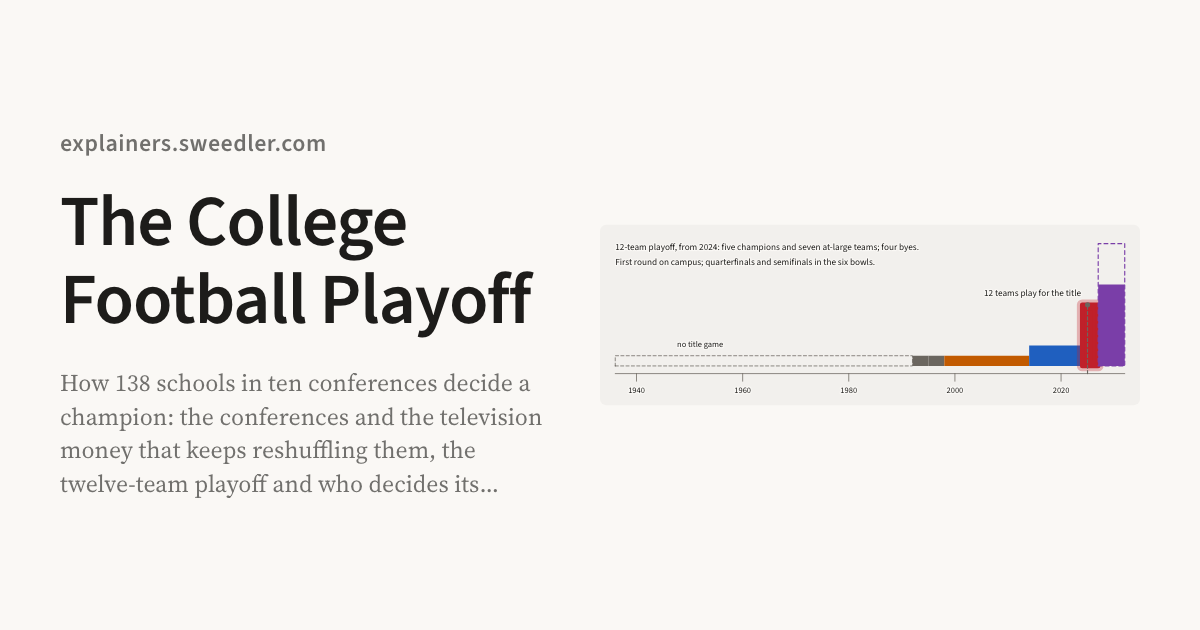
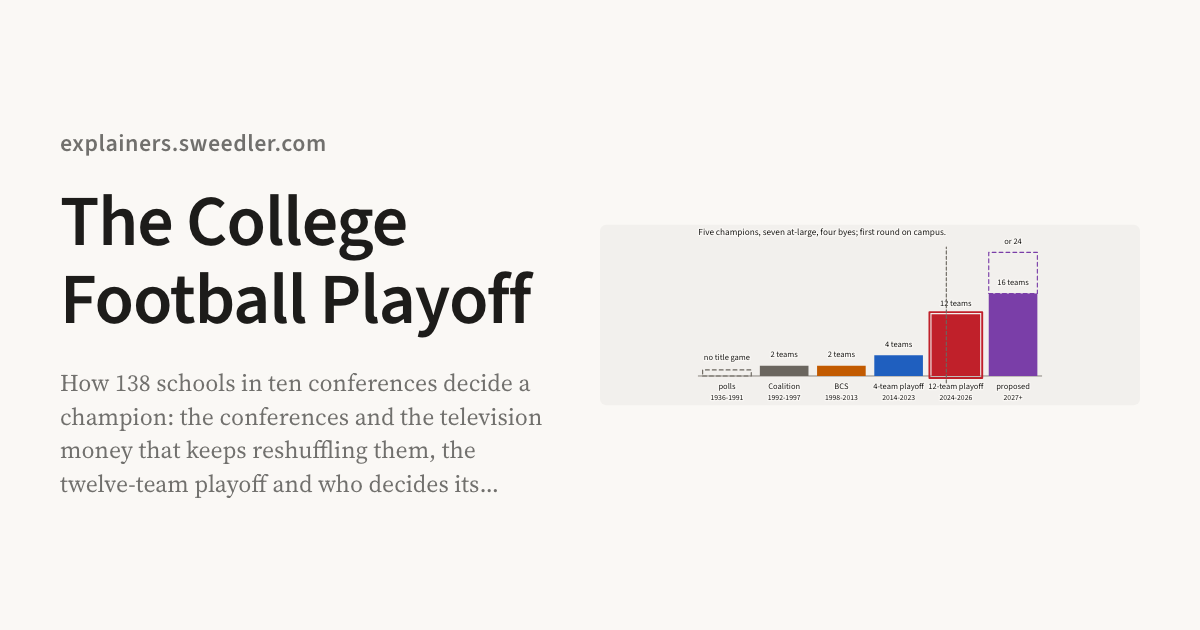
articles/college-football-playoff: hero as equal-width era columns
The staircase of teams that play for the title now has one column per
system, so the five modern systems are not crammed into the last tenth of
a 1936-2032 axis; the marker glides across the columns with the season.

Front-page card (29 interactive figures, 18 min, swatches red, blue, orange)
and the link-preview card assets/og.png. The Pages workflow deploys it to
https://explainers.sweedler.com/college-football-playoff/

Changed region(s): [[0.5242, 0.4222, 0.9558, 0.6333], [0.5242, 0.3619, 0.8017, 0.4222]]

diff --git a/articles/college-football-playoff/index.html b/articles/college-football-playoff/index.html
@@ -59,7 +59,7 @@
   <h1>The College Football Playoff</h1>
   <p class="x-lede">Every January one team is named the champion of college football, and every year the way it is chosen seems to change. The system is three systems stacked on one another: conferences of schools that sell television rights, a postseason that was never designed as a whole, and a century of rules about paying the players that the courts have been dismantling since 2014. The first tab is the system as it stands in 2026; the second is how it got this way, one dated entry at a time.</p>
   <figure class="x-fig" id="fig-hero" data-aspect="3:1">
-<svg class="x-poster" id="fig-hero-poster" xmlns="http://www.w3.org/2000/svg" viewBox="0 0 704 235" width="704" height="235" aria-hidden="true" data-poster="08406f91b91f237810a85561dc0849f1ceb63712"><style>#fig-hero-poster:root{color-scheme:light dark}
+<svg class="x-poster" id="fig-hero-poster" xmlns="http://www.w3.org/2000/svg" viewBox="0 0 704 235" width="704" height="235" aria-hidden="true" data-poster="6db7342e5d0f9a1b0aeaf99c5abca2f068773d8e"><style>#fig-hero-poster:root{color-scheme:light dark}
 #fig-hero-poster{font:13px 'Source Sans 3', system-ui, -apple-system, 'Segoe UI', sans-serif}
 #fig-hero-poster .f-blue{fill:var(--c-blue, light-dark(#1f5fbf, #7cb0ff))}
 #fig-hero-poster .f-fg{fill:var(--fg, light-dark(#1d1c1a, #e8e4dc))}
@@ -71,8 +71,8 @@
 #fig-hero-poster .h{paint-order:stroke;stroke:var(--bg, light-dark(#faf8f5, #151412));stroke-width:3;stroke-linejoin:round}
 #fig-hero-poster .s-grey{stroke:var(--c-grey, light-dark(#6b665f, #a8a199))}
 #fig-hero-poster .s-purple{stroke:var(--c-purple, light-dark(#7a3ea8, #c99bff))}
-#fig-hero-poster .s-red{stroke:var(--c-red, light-dark(#c0202a, #ff7b7b))}</style><defs><clipPath id="fig-hero-poster-c0"><path d="M0 0h704v235h-704Z"/></clipPath></defs><g fill="none" stroke-linecap="round" stroke-linejoin="round"><rect width="704" height="235" rx="8" class="f-panel"/><g clip-path="url(#fig-hero-poster-c0)"><path d="M19.9 193.9L684.1 193.9" class="s-grey" stroke-width="1"/><path d="M47.6 193.9L47.6 203.8" class="s-grey" stroke-width="1"/><text x="47.6" y="218.8" class="f-fg h" font-size="11" text-anchor="middle">1940</text><path d="M186 193.9L186 203.8" class="s-grey" stroke-width="1"/><text x="186" y="218.8" class="f-fg h" font-size="11" text-anchor="middle">1960</text><path d="M324.3 193.9L324.3 203.8" class="s-grey" stroke-width="1"/><text x="324.3" y="218.8" class="f-fg h" font-size="11" text-anchor="middle">1980</text><path d="M462.7 193.9L462.7 203.8" class="s-grey" stroke-width="1"/><text x="462.7" y="218.8" class="f-fg h" font-size="11" text-anchor="middle">2000</text><path d="M601.1 193.9L601.1 203.8" class="s-grey" stroke-width="1"/><text x="601.1" y="218.8" class="f-fg h" font-size="11" text-anchor="middle">2020</text><path d="M19.9 183.9L407.4 183.9L407.4 170.6L19.9 170.6Z" class="s-grey" stroke-width="1" stroke-dasharray="4 3"/><text x="130.6" y="159.3" class="f-fg h" font-size="11" text-anchor="middle">no title game</text><path d="M407.4 183.9L428.1 183.9L428.1 170.6L407.4 170.6Z" class="f-grey"/><path d="M428.1 183.9L448.9 183.9L448.9 170.6L428.1 170.6Z" class="f-grey"/><path d="M448.9 183.9L559.5 183.9L559.5 170.6L448.9 170.6Z" class="f-orange"/><path d="M559.5 183.9L628.7 183.9L628.7 157.3L559.5 157.3Z" class="f-blue"/><path d="M628.7 183.9L649.5 183.9L649.5 104.2L628.7 104.2Z" class="f-red"/><path d="M628.7 183.9L649.5 183.9L649.5 104.2L628.7 104.2Z" class="s-red" stroke-width="14" opacity="0.3"/><path d="M628.7 183.9L649.5 183.9L649.5 104.2L628.7 104.2Z" class="s-red" stroke-width="6"/><text x="19.9" y="32.8" class="f-fg h" font-size="12">12-team playoff, from 2024: five champions and seven at-large teams; four byes.</text><text x="19.9" y="52.7" class="f-fg h" font-size="12">First round on campus; quarterfinals and semifinals in the six bowls.</text><path d="M649.5 183.9L684.1 183.9L684.1 77.7L649.5 77.7Z" class="f-purple"/><path d="M649.5 183.9L684.1 183.9L684.1 24.5L649.5 24.5Z" class="s-purple" stroke-width="1.5" stroke-dasharray="5 4"/><path d="M635.6 193.9L635.6 104.2" class="s-grey" stroke-width="1.5" stroke-dasharray="4 3"/><path d="M639 104.2A3.3 3.3 0 1 1 632.3 104.2A3.3 3.3 0 1 1 639 104.2" class="f-grey"/><text x="627.3" y="92.3" class="f-fg h" font-size="12" text-anchor="end">12 teams play for the title</text></g></g></svg>
-<script type="application/json">{"shows":{"type":"scene2d","view":{"x":[-10.6,10.6],"y":[-2.3,4.5]},"caveats":{"simplified":true},"layers":[{"id":"axis","kind":"segment","from":[-10,-1.2],"to":[10,-1.2],"stroke":"grey","width":1},{"id":"tick1940","kind":"segment","from":[-9.167,-1.2],"to":[-9.167,-1.5],"stroke":"grey","width":1},{"id":"tl1940","kind":"text","at":[-9.167,-1.95],"text":"1940","size":11,"align":"center"},{"id":"tick1960","kind":"segment","from":[-5.0,-1.2],"to":[-5.0,-1.5],"stroke":"grey","width":1},{"id":"tl1960","kind":"text","at":[-5.0,-1.95],"text":"1960","size":11,"align":"center"},{"id":"tick1980","kind":"segment","from":[-0.833,-1.2],"to":[-0.833,-1.5],"stroke":"grey","width":1},{"id":"tl1980","kind":"text","at":[-0.833,-1.95],"text":"1980","size":11,"align":"center"},{"id":"tick2000","kind":"segment","from":[3.333,-1.2],"to":[3.333,-1.5],"stroke":"grey","width":1},{"id":"tl2000","kind":"text","at":[3.333,-1.95],"text":"2000","size":11,"align":"center"},{"id":"tick2020","kind":"segment","from":[7.5,-1.2],"to":[7.5,-1.5],"stroke":"grey","width":1},{"id":"tl2020","kind":"text","at":[7.5,-1.95],"text":"2020","size":11,"align":"center"},{"id":"era0","kind":"polygon","points":[[-10.0,-0.9],[1.667,-0.9],[1.667,-0.5],[-10.0,-0.5]],"stroke":"grey","width":1,"dash":[4,3]},{"id":"era0-hi","kind":"polygon","points":[[-10.0,-0.9],[1.667,-0.9],[1.667,-0.5],[-10.0,-0.5]],"stroke":"grey","width":2,"dash":[4,3],"highlight":true,"visible":"clamp(min(y-1936+1, 1992-y),0,1)"},{"id":"nogame","kind":"text","at":[-6.667,-0.15999999999999998],"text":"no title game","size":11,"align":"center"},{"id":"txt0a","kind":"text","at":[-10,3.65],"text":"Polls, 1936-1991: the AP (from 1936) and the coaches (from 1950) vote a champion.","size":12,"align":"left","visible":"clamp(min(y-1936+1, 1992-y),0,1)"},{"id":"txt0b","kind":"text","at":[-10,3.05],"text":"Bowl contracts fix the matchups, so No. 1 and No. 2 rarely meet.","size":12,"align":"left","visible":"clamp(min(y-1936+1, 1992-y),0,1)"},{"id":"era1","kind":"polygon","points":[[1.667,-0.9],[2.292,-0.9],[2.292,-0.5],[1.667,-0.5]],"fill":"grey"},{"id":"era1-hi","kind":"polygon","points":[[1.667,-0.9],[2.292,-0.9],[2.292,-0.5],[1.667,-0.5]],"stroke":"grey","width":3,"highlight":true,"visible":"clamp(min(y-1992+1, 1995-y),0,1)"},{"id":"txt1a","kind":"text","at":[-10,3.65],"text":"Bowl Coalition, 1992-1994: five conferences and Notre Dame try to pair No. 1 and No. 2.","size":12,"align":"left","visible":"clamp(min(y-1992+1, 1995-y),0,1)"},{"id":"txt1b","kind":"text","at":[-10,3.05],"text":"The Big Ten and Pac-10 stay in the Rose Bowl, outside the deal, so the pairing often fails.","size":12,"align":"left","visible":"clamp(min(y-1992+1, 1995-y),0,1)"},{"id":"era2","kind":"polygon","points":[[2.292,-0.9],[2.917,-0.9],[2.917,-0.5],[2.292,-0.5]],"fill":"grey"},{"id":"era2-hi","kind":"polygon","points":[[2.292,-0.9],[2.917,-0.9],[2.917,-0.5],[2.292,-0.5]],"stroke":"grey","width":3,"highlight":true,"visible":"clamp(min(y-1995+1, 1998-y),0,1)"},{"id":"txt2a","kind":"text","at":[-10,3.65],"text":"Bowl Alliance, 1995-1997: three bowls rotate a No. 1 vs No. 2 game.","size":12,"align":"left","visible":"clamp(min(y-1995+1, 1998-y),0,1)"},{"id":"txt2b","kind":"text","at":[-10,3.05],"text":"Rose Bowl teams still excluded: 1997 ends in a split title.","size":12,"align":"left","visible":"clamp(min(y-1995+1, 1998-y),0,1)"},{"id":"era3","kind":"polygon","points":[[2.917,-0.9],[6.25,-0.9],[6.25,-0.5],[2.917,-0.5]],"fill":"orange"},{"id":"era3-hi","kind":"polygon","points":[[2.917,-0.9],[6.25,-0.9],[6.25,-0.5],[2.917,-0.5]],"stroke":"orange","width":3,"highlight":true,"visible":"clamp(min(y-1998+1, 2014-y),0,1)"},{"id":"txt3a","kind":"text","at":[-10,3.65],"text":"Bowl Championship Series (BCS), 1998-2013: a formula picks two teams for one title game.","size":12,"align":"left","visible":"clamp(min(y-1998+1, 2014-y),0,1)"},{"id":"txt3b","kind":"text","at":[-10,3.05],"text":"Four bowls, then a standalone title game from the 2006 season.","size":12,"align":"left","visible":"clamp(min(y-1998+1, 2014-y),0,1)"},{"id":"era4","kind":"polygon","points":[[6.25,-0.9],[8.333,-0.9],[8.333,-0.1],[6.25,-0.1]],"fill":"blue"},{"id":"era4-hi","kind":"polygon","points":[[6.25,-0.9],[8.333,-0.9],[8.333,-0.1],[6.25,-0.1]],"stroke":"blue","width":3,"highlight":true,"visible":"clamp(min(y-2014+1, 2024-y),0,1)"},{"id":"txt4a","kind":"text","at":[-10,3.65],"text":"4-team playoff, 2014-2023: a 13-member committee ranks the top four.","size":12,"align":"left","visible":"clamp(min(y-2014+1, 2024-y),0,1)"},{"id":"txt4b","kind":"text","at":[-10,3.05],"text":"Two New Year's Six bowls host the semifinals on a three-year rotation.","size":12,"align":"left","visible":"clamp(min(y-2014+1, 2024-y),0,1)"},{"id":"era5","kind":"polygon","points":[[8.333,-0.9],[8.958,-0.9],[8.958,1.5],[8.333,1.5]],"fill":"red"},{"id":"era5-hi","kind":"polygon","points":[[8.333,-0.9],[8.958,-0.9],[8.958,1.5],[8.333,1.5]],"stroke":"red","width":3,"highlight":true,"visible":"clamp(min(y-2024+1, 2027-y),0,1)"},{"id":"txt5a","kind":"text","at":[-10,3.65],"text":"12-team playoff, from 2024: five champions and seven at-large teams; four byes.","size":12,"align":"left","visible":"clamp(min(y-2024+1, 2027-y),0,1)"},{"id":"txt5b","kind":"text","at":[-10,3.05],"text":"First round on campus; quarterfinals and semifinals in the six bowls.","size":12,"align":"left","visible":"clamp(min(y-2024+1, 2027-y),0,1)"},{"id":"era6","kind":"polygon","points":[[8.958,-0.9],[10.0,-0.9],[10.0,2.3],[8.958,2.3]],"fill":"purple"},{"id":"era6-hi","kind":"polygon","points":[[8.958,-0.9],[10.0,-0.9],[10.0,2.3],[8.958,2.3]],"stroke":"purple","width":3,"highlight":true,"visible":"clamp(min(y-2027+1, 2032-y),0,1)"},{"id":"era6-alt","kind":"polygon","points":[[8.958,-0.9],[10.0,-0.9],[10.0,3.9],[8.958,3.9]],"stroke":"purple","width":1.5,"dash":[5,4]},{"id":"txt6a","kind":"text","at":[-10,3.65],"text":"Proposed for 2027: 16 teams (5+11) or 24 teams with eight byes; undecided as of October 2026.","size":12,"align":"left","visible":"clamp(min(y-2027+1, 2032-y),0,1)"},{"id":"txt6b","kind":"text","at":[-10,3.05],"text":"The CFP has until 1 December 2026 to change the 2027 format.","size":12,"align":"left","visible":"clamp(min(y-2027+1, 2032-y),0,1)"},{"id":"marker","kind":"segment","from":["-10+20*(y-1936)/96",-1.2],"to":["-10+20*(y-1936)/96","-0.9+0.2*(2*clamp(y-1992+1,0,1)+2*clamp(y-2014+1,0,1)+8*clamp(y-2024+1,0,1)+4*clamp(y-2027+1,0,1))"],"stroke":"grey","width":1.5,"dash":[4,3]},{"id":"dot","kind":"circle","cx":"-10+20*(y-1936)/96","cy":"-0.9+0.2*(2*clamp(y-1992+1,0,1)+2*clamp(y-2014+1,0,1)+8*clamp(y-2024+1,0,1)+4*clamp(y-2027+1,0,1))","r":0.1,"fill":"grey"},{"id":"teams","kind":"text","at":["-10+20*(y-1936)/96-0.25","-0.9+0.2*(2*clamp(y-1992+1,0,1)+2*clamp(y-2014+1,0,1)+8*clamp(y-2024+1,0,1)+4*clamp(y-2027+1,0,1))+0.36"],"text":"{2*clamp(y-1992+1,0,1)+2*clamp(y-2014+1,0,1)+8*clamp(y-2024+1,0,1)+4*clamp(y-2027+1,0,1):.0f} teams play for the title","size":12,"align":"right","visible":"clamp(min(y-1992+1, 2027-y),0,1)"},{"id":"next","kind":"text","at":[8.708,4.05],"text":"16 or 24 teams: undecided","size":12,"align":"right","visible":"clamp(y-2027+1,0,1)"}]},"manipulates":{"controls":[{"kind":"slider","name":"y","label":"season","min":1936,"max":2032,"step":1,"default":2025,"width":"long","token":"grey","format":"{y:.0f}"}]},"notice":{"steps":"buttons","point_at":[],"states":[{"name":"polls","y":1960,"label":"polls","caption":"1936-1991: two polls vote and bowl contracts decide who plays whom; there is no title game."},{"name":"bcs","y":2005,"label":"BCS","caption":"1998-2013: a formula picks two teams for one title game."},{"name":"four","y":2018,"label":"4 teams","caption":"2014-2023: a committee picks four; two bowls host the semifinals."},{"name":"twelve","y":2025,"label":"12 teams","caption":"2024-: twelve teams, four byes, first round on campus."},{"name":"next","y":2028,"label":"2027+","caption":"16 or 24 teams; undecided as of October 2026."}]}}</script>
+#fig-hero-poster .s-red{stroke:var(--c-red, light-dark(#c0202a, #ff7b7b))}</style><defs><clipPath id="fig-hero-poster-c0"><path d="M0 0h704v235h-704Z"/></clipPath></defs><g fill="none" stroke-linecap="round" stroke-linejoin="round"><rect width="704" height="235" rx="8" class="f-panel"/><g clip-path="url(#fig-hero-poster-c0)"><path d="M128.2 197L575.8 197" class="s-grey" stroke-width="1"/><path d="M133.8 197L197.2 197L197.2 189.1L133.8 189.1Z" class="s-grey" stroke-width="1.5" stroke-dasharray="5 4"/><text x="165.5" y="176.8" class="f-fg h" font-size="11" text-anchor="middle">no title game</text><text x="165.5" y="213.7" class="f-fg h" font-size="11" text-anchor="middle">polls</text><text x="165.5" y="228.3" class="f-fg h" font-size="10" text-anchor="middle">1936-1991</text><path d="M208.4 197L271.8 197L271.8 183.5L208.4 183.5Z" class="f-grey"/><text x="240.1" y="172.3" class="f-fg h" font-size="11" text-anchor="middle">2 teams</text><text x="240.1" y="213.7" class="f-fg h" font-size="11" text-anchor="middle">Coalition</text><text x="240.1" y="228.3" class="f-fg h" font-size="10" text-anchor="middle">1992-1997</text><path d="M283 197L346.4 197L346.4 183.5L283 183.5Z" class="f-orange"/><text x="314.7" y="172.3" class="f-fg h" font-size="11" text-anchor="middle">2 teams</text><text x="314.7" y="213.7" class="f-fg h" font-size="11" text-anchor="middle">BCS</text><text x="314.7" y="228.3" class="f-fg h" font-size="10" text-anchor="middle">1998-2013</text><path d="M357.6 197L421 197L421 170.1L357.6 170.1Z" class="f-blue"/><text x="389.3" y="158.9" class="f-fg h" font-size="11" text-anchor="middle">4 teams</text><text x="389.3" y="213.7" class="f-fg h" font-size="11" text-anchor="middle">4-team playoff</text><text x="389.3" y="228.3" class="f-fg h" font-size="10" text-anchor="middle">2014-2023</text><path d="M432.2 197L495.6 197L495.6 116.4L432.2 116.4Z" class="f-red"/><text x="463.9" y="105.2" class="f-fg h" font-size="11" text-anchor="middle">12 teams</text><path d="M429.5 199.6L498.3 199.6L498.3 113.7L429.5 113.7Z" class="s-red" stroke-width="2.5"/><text x="463.9" y="213.7" class="f-fg h" font-size="11" text-anchor="middle">12-team playoff</text><text x="463.9" y="228.3" class="f-fg h" font-size="10" text-anchor="middle">2024-2026</text><text x="128.2" y="13.4" class="f-fg h" font-size="12">Five champions, seven at-large, four byes; first round on campus.</text><path d="M506.8 197L570.2 197L570.2 89.5L506.8 89.5Z" class="f-purple"/><text x="538.5" y="78.3" class="f-fg h" font-size="11" text-anchor="middle">16 teams</text><path d="M506.8 89.5L570.2 89.5L570.2 35.8L506.8 35.8Z" class="s-purple" stroke-width="1.5" stroke-dasharray="5 4"/><text x="538.5" y="24.6" class="f-fg h" font-size="11" text-anchor="middle">or 24</text><text x="538.5" y="213.7" class="f-fg h" font-size="11" text-anchor="middle">proposed</text><text x="538.5" y="228.3" class="f-fg h" font-size="10" text-anchor="middle">2027+</text><path d="M451.5 205.9L451.5 29.1" class="s-grey" stroke-width="1.5" stroke-dasharray="4 3"/></g></g></svg>
+<script type="application/json">{"shows":{"type":"scene2d","view":{"x":[-10.6,10.6],"y":[-4.9,5.6]},"layers":[{"id":"axis","kind":"segment","from":[-10.0,-3.2],"to":[10.0,-3.2],"stroke":"grey","width":1},{"id":"era0","kind":"polygon","points":[[-9.75,-3.2],[-6.916666666666666,-3.2],[-6.916666666666666,-2.85],[-9.75,-2.85]],"stroke":"grey","dash":[5,4]},{"id":"n0","kind":"text","at":[-8.333333333333332,-2.3000000000000003],"text":"no title game","size":11,"align":"center"},{"id":"hi0","kind":"polygon","points":[[-9.87,-3.3200000000000003],[-6.796666666666666,-3.3200000000000003],[-6.796666666666666,-2.73],[-9.87,-2.73]],"stroke":"grey","visible":"clamp(min(y-1936+1, 1991-y+1),0,1)","width":2.5},{"id":"lab0","kind":"text","at":[-8.333333333333332,-3.95],"text":"polls","size":11,"align":"center"},{"id":"span0","kind":"text","at":[-8.333333333333332,-4.6],"text":"1936-1991","size":10,"align":"center"},{"id":"d0","kind":"text","at":[-10.0,5.0],"text":"Two polls vote; bowl contracts decide who plays whom; no title game.","size":12,"align":"left","visible":"clamp(min(y-1936+1, 1991-y+1),0,1)"},{"id":"era1","kind":"polygon","points":[[-6.416666666666666,-3.2],[-3.5833333333333326,-3.2],[-3.5833333333333326,-2.6],[-6.416666666666666,-2.6]],"fill":"grey"},{"id":"n1","kind":"text","at":[-4.999999999999999,-2.1],"text":"2 teams","size":11,"align":"center"},{"id":"hi1","kind":"polygon","points":[[-6.536666666666666,-3.3200000000000003],[-3.4633333333333325,-3.3200000000000003],[-3.4633333333333325,-2.48],[-6.536666666666666,-2.48]],"stroke":"grey","visible":"clamp(min(y-1992+1, 1997-y+1),0,1)","width":2.5},{"id":"lab1","kind":"text","at":[-4.999999999999999,-3.95],"text":"Coalition","size":11,"align":"center"},{"id":"span1","kind":"text","at":[-4.999999999999999,-4.6],"text":"1992-1997","size":10,"align":"center"},{"id":"d1","kind":"text","at":[-10.0,5.0],"text":"Two teams paired in one bowl when the Rose Bowl allows.","size":12,"align":"left","visible":"clamp(min(y-1992+1, 1997-y+1),0,1)"},{"id":"era2","kind":"polygon","points":[[-3.083333333333333,-3.2],[-0.24999999999999956,-3.2],[-0.24999999999999956,-2.6],[-3.083333333333333,-2.6]],"fill":"orange"},{"id":"n2","kind":"text","at":[-1.6666666666666663,-2.1],"text":"2 teams","size":11,"align":"center"},{"id":"hi2","kind":"polygon","points":[[-3.203333333333333,-3.3200000000000003],[-0.12999999999999956,-3.3200000000000003],[-0.12999999999999956,-2.48],[-3.203333333333333,-2.48]],"stroke":"orange","visible":"clamp(min(y-1998+1, 2013-y+1),0,1)","width":2.5},{"id":"lab2","kind":"text","at":[-1.6666666666666663,-3.95],"text":"BCS","size":11,"align":"center"},{"id":"span2","kind":"text","at":[-1.6666666666666663,-4.6],"text":"1998-2013","size":10,"align":"center"},{"id":"d2","kind":"text","at":[-10.0,5.0],"text":"A formula picks two teams for one title game.","size":12,"align":"left","visible":"clamp(min(y-1998+1, 2013-y+1),0,1)"},{"id":"era3","kind":"polygon","points":[[0.25,-3.2],[3.0833333333333335,-3.2],[3.0833333333333335,-2.0],[0.25,-2.0]],"fill":"blue"},{"id":"n3","kind":"text","at":[1.6666666666666667,-1.5],"text":"4 teams","size":11,"align":"center"},{"id":"hi3","kind":"polygon","points":[[0.13,-3.3200000000000003],[3.2033333333333336,-3.3200000000000003],[3.2033333333333336,-1.88],[0.13,-1.88]],"stroke":"blue","visible":"clamp(min(y-2014+1, 2023-y+1),0,1)","width":2.5},{"id":"lab3","kind":"text","at":[1.6666666666666667,-3.95],"text":"4-team playoff","size":11,"align":"center"},{"id":"span3","kind":"text","at":[1.6666666666666667,-4.6],"text":"2014-2023","size":10,"align":"center"},{"id":"d3","kind":"text","at":[-10.0,5.0],"text":"A committee picks four; two bowls host the semifinals.","size":12,"align":"left","visible":"clamp(min(y-2014+1, 2023-y+1),0,1)"},{"id":"era4","kind":"polygon","points":[[3.583333333333334,-3.2],[6.416666666666668,-3.2],[6.416666666666668,0.39999999999999947],[3.583333333333334,0.39999999999999947]],"fill":"red"},{"id":"n4","kind":"text","at":[5.000000000000001,0.8999999999999995],"text":"12 teams","size":11,"align":"center"},{"id":"hi4","kind":"polygon","points":[[3.463333333333334,-3.3200000000000003],[6.536666666666668,-3.3200000000000003],[6.536666666666668,0.5199999999999995],[3.463333333333334,0.5199999999999995]],"stroke":"red","visible":"clamp(min(y-2024+1, 2026-y+1),0,1)","width":2.5},{"id":"lab4","kind":"text","at":[5.000000000000001,-3.95],"text":"12-team playoff","size":11,"align":"center"},{"id":"span4","kind":"text","at":[5.000000000000001,-4.6],"text":"2024-2026","size":10,"align":"center"},{"id":"d4","kind":"text","at":[-10.0,5.0],"text":"Five champions, seven at-large, four byes; first round on campus.","size":12,"align":"left","visible":"clamp(min(y-2024+1, 2026-y+1),0,1)"},{"id":"era5","kind":"polygon","points":[[6.916666666666668,-3.2],[9.750000000000002,-3.2],[9.750000000000002,1.5999999999999996],[6.916666666666668,1.5999999999999996]],"fill":"purple"},{"id":"n5","kind":"text","at":[8.333333333333336,2.0999999999999996],"text":"16 teams","size":11,"align":"center"},{"id":"era6-alt","kind":"polygon","points":[[6.916666666666668,1.5999999999999996],[9.750000000000002,1.5999999999999996],[9.750000000000002,3.999999999999999],[6.916666666666668,3.999999999999999]],"stroke":"purple","dash":[5,4]},{"id":"n6b","kind":"text","at":[8.333333333333336,4.499999999999999],"text":"or 24","size":11,"align":"center"},{"id":"hi5","kind":"polygon","points":[[6.796666666666668,-3.3200000000000003],[9.870000000000001,-3.3200000000000003],[9.870000000000001,1.7199999999999998],[6.796666666666668,1.7199999999999998]],"stroke":"purple","visible":"clamp(min(y-2027+1, 2032-y+1),0,1)","width":2.5},{"id":"lab5","kind":"text","at":[8.333333333333336,-3.95],"text":"proposed","size":11,"align":"center"},{"id":"span5","kind":"text","at":[8.333333333333336,-4.6],"text":"2027+","size":10,"align":"center"},{"id":"d5","kind":"text","at":[-10.0,5.0],"text":"16 teams (the SEC) or 24 (the Big Ten); undecided as of October 2026.","size":12,"align":"left","visible":"clamp(min(y-2027+1, 2032-y+1),0,1)"},{"id":"marker","kind":"segment","from":["(clamp(min(y-1936+1, 1991-y+1),0,1))*(-10.0 + 3.3333333333333335*(y-1936)/56) + (clamp(min(y-1992+1, 1997-y+1),0,1))*(-6.666666666666666 + 3.3333333333333335*(y-1992)/6) + (clamp(min(y-1998+1, 2013-y+1),0,1))*(-3.333333333333333 + 3.3333333333333335*(y-1998)/16) + (clamp(min(y-2014+1, 2023-y+1),0,1))*(0.0 + 3.3333333333333335*(y-2014)/10) + (clamp(min(y-2024+1, 2026-y+1),0,1))*(3.333333333333334 + 3.3333333333333335*(y-2024)/3) + (clamp(min(y-2027+1, 2032-y+1),0,1))*(6.666666666666668 + 3.3333333333333335*(y-2027)/6)",-3.6],"to":["(clamp(min(y-1936+1, 1991-y+1),0,1))*(-10.0 + 3.3333333333333335*(y-1936)/56) + (clamp(min(y-1992+1, 1997-y+1),0,1))*(-6.666666666666666 + 3.3333333333333335*(y-1992)/6) + (clamp(min(y-1998+1, 2013-y+1),0,1))*(-3.333333333333333 + 3.3333333333333335*(y-1998)/16) + (clamp(min(y-2014+1, 2023-y+1),0,1))*(0.0 + 3.3333333333333335*(y-2014)/10) + (clamp(min(y-2024+1, 2026-y+1),0,1))*(3.333333333333334 + 3.3333333333333335*(y-2024)/3) + (clamp(min(y-2027+1, 2032-y+1),0,1))*(6.666666666666668 + 3.3333333333333335*(y-2027)/6)",4.3],"stroke":"grey","width":1.5,"dash":[4,3]}],"caveats":{"simplified":true}},"manipulates":{"controls":[{"kind":"slider","name":"y","label":"season","default":2025,"token":"grey","width":"long","min":1936,"max":2032,"step":1,"format":"{y:.0f} season: {(clamp(min(y-1936+1, 1991-y+1),0,1))*0 + (clamp(min(y-1992+1, 1997-y+1),0,1))*2 + (clamp(min(y-1998+1, 2013-y+1),0,1))*2 + (clamp(min(y-2014+1, 2023-y+1),0,1))*4 + (clamp(min(y-2024+1, 2026-y+1),0,1))*12 + (clamp(min(y-2027+1, 2032-y+1),0,1))*16:.0f} teams play for the title"}]},"notice":{"steps":"buttons","point_at":[],"states":[{"name":"polls","label":"polls","caption":"Through 1991 two polls vote, and bowl contracts decide who plays whom.","y":1990},{"name":"bcs","label":"BCS","caption":"1998-2013: a formula picks two teams for one title game.","y":2005},{"name":"four","label":"4 teams","caption":"2014-2023: a committee picks four; two bowls host the semifinals.","y":2018},{"name":"twelve","label":"12 teams","caption":"2024-: twelve teams, four byes, first round on campus.","y":2025},{"name":"next","label":"2027+","caption":"16 or 24 teams; undecided as of October 2026.","y":2028}]}}</script>
 <figcaption>Drag the season slider; the step pill under it jumps to each system. Bar height is the number of teams that play for the title. Simplified: the bars mark whole seasons.</figcaption>
 </figure>
 </header>
